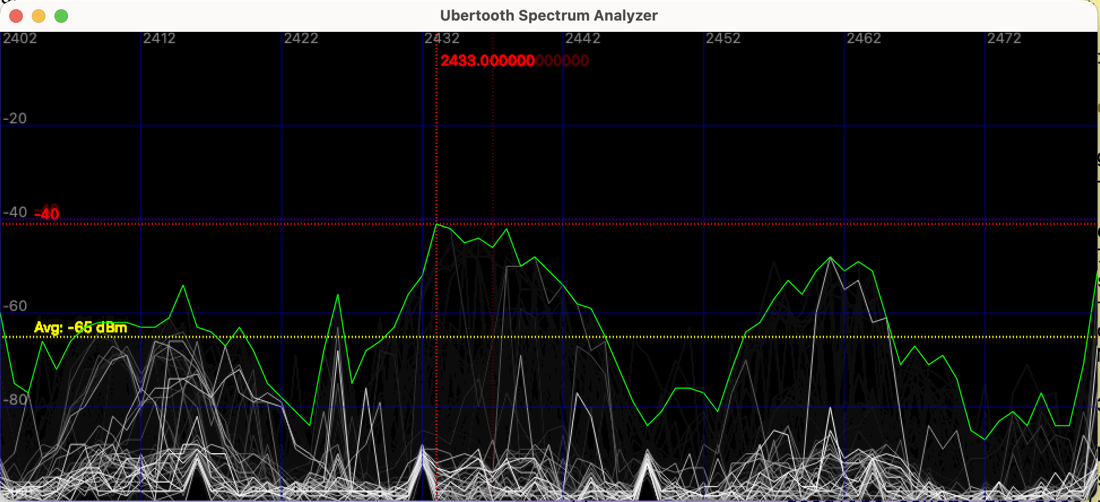
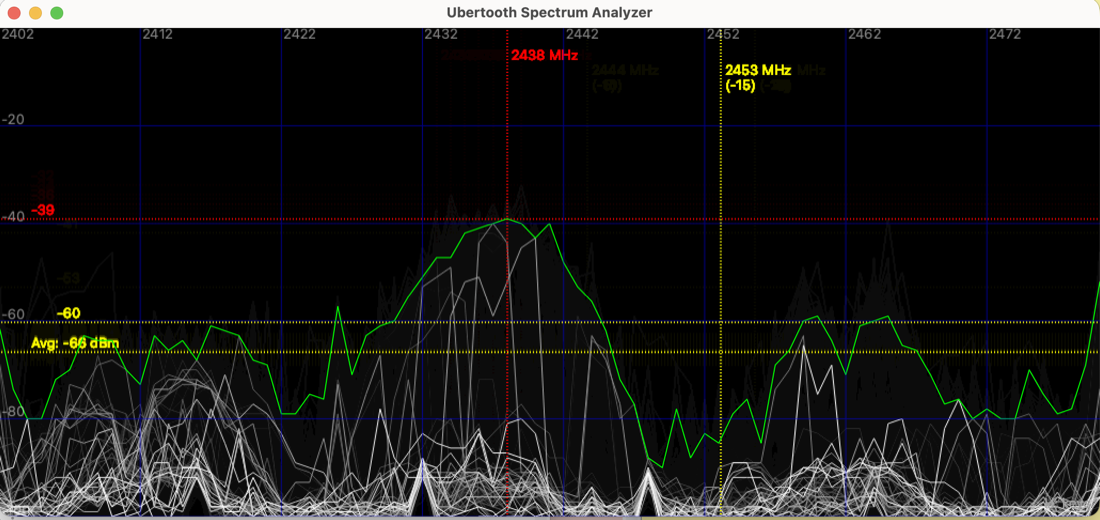
docs: current specan-ui screenshot with peak, average and a marker

Changed region(s): [[0.0, 0.0, 1.0, 1.0]]

diff --git a/docs/source/specan_ui.rst b/docs/source/specan_ui.rst
@@ -7,7 +7,8 @@ Ubertooth. It is a Python/Qt application that reads spectrum data from the
 device (via ``ubertooth-specan``) and plots it.
 
 .. image:: ../images/specan_ui.png
-   :alt: ubertooth-specan-ui showing Wi-Fi and Bluetooth activity across 2.4 GHz
+   :alt: ubertooth-specan-ui showing 2.4 GHz activity with the peak, average and
+         a left-click marker
 
 This guide covers installing and running it, its options, keys and display,
 and the common ``ModuleNotFoundError: No module named 'specan'`` error. The
